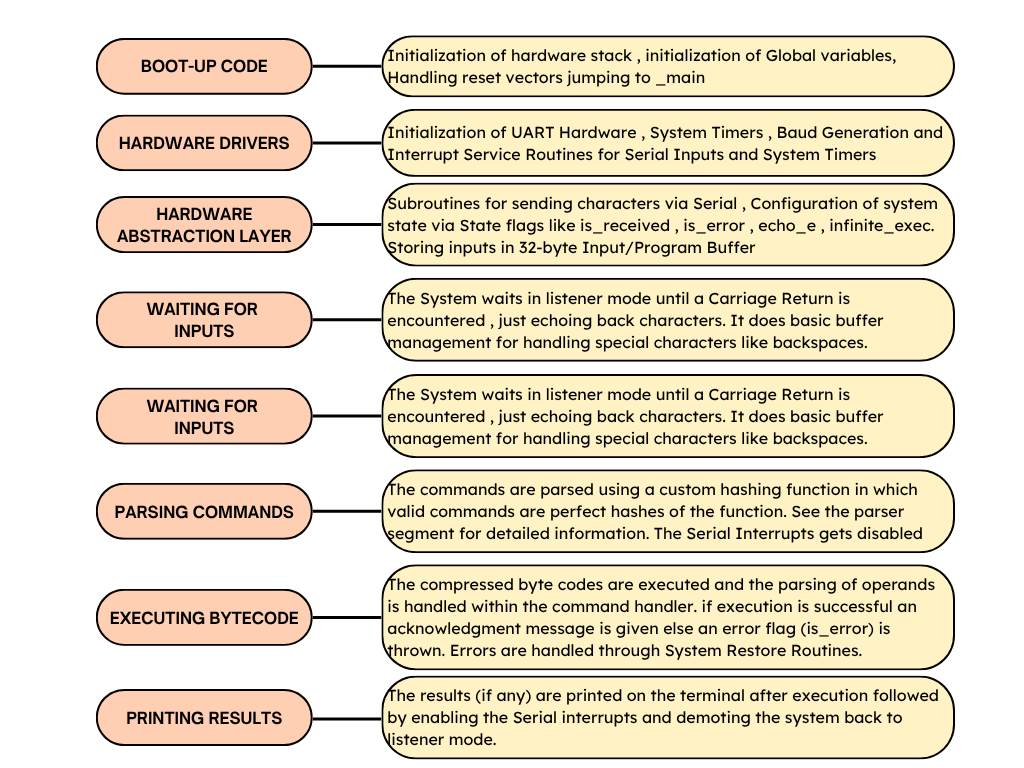
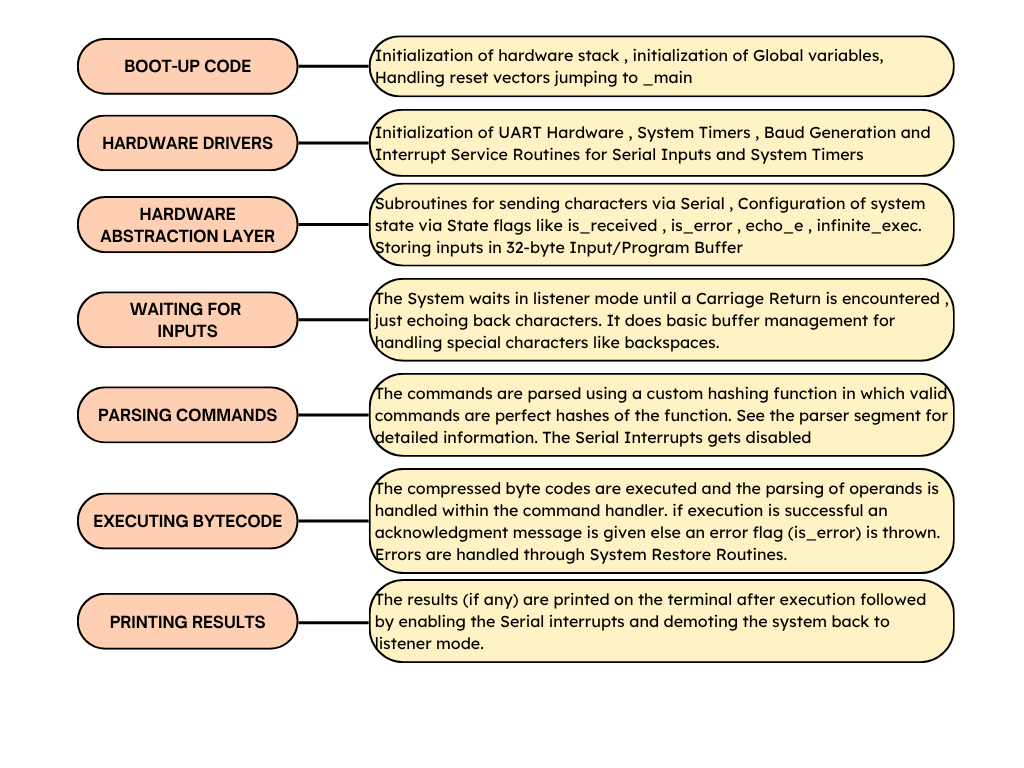
Updated README with latest information

diff --git a/README.md b/README.md
@@ -43,7 +43,7 @@ Micro Virtual - R significantly reduces the programming needed and eliminates th
 <br>
 ![Software Architecture Chart](assets/2.png)
 <br>
-## **Micro virtual Runtime Interface** <br>
+## **Micro Virtual Runtime Interface** <br>
 Micro virtual - R features a comprehensive CLI as a primary communication medium. It also supports font colors via `--c` command 
 varivous arithmetic , logical and automation commands can be run via the serial terminal 
 ![Micro Virtual R Demo](assets/cli_demo_image.png)
